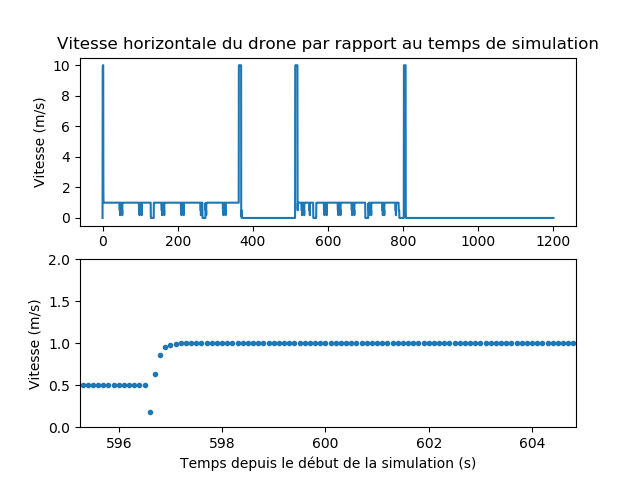
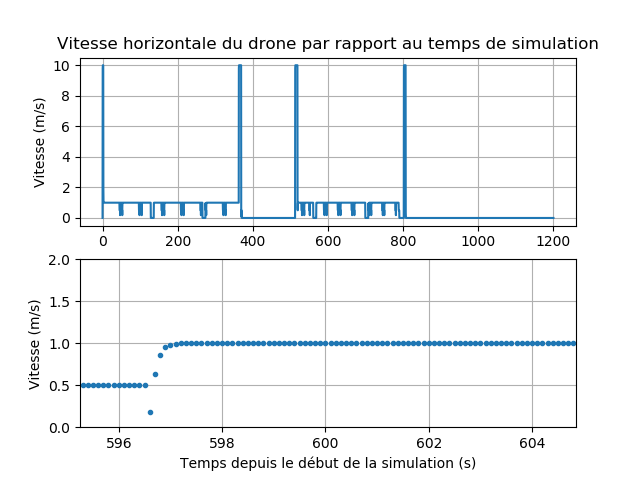
2 axis with grid

diff --git a/generate_graphs.py b/generate_graphs.py
@@ -7,16 +7,16 @@ try3 = pandas.read_csv("4cores_localvm_try3.csv", sep=",", header=0, index_col=F
 
 #Un example de variable d'état du drone (vitesse horizontale)
 fig, (ax1, ax2) = subplots(2,1)
+ax1.grid()
 ax1.plot(try1["pas de simulation (ms)"]/1000, try1["vitesse horizontale"])
 ax1.set_title('Vitesse horizontale du drone par rapport au temps de simulation')
 ax1.set_ylabel('Vitesse (m/s)')
-grid()
 ax2.margins(x=-0.496, y=0.05)
 ax2.set_ylim([0,2])
 ax2.plot(try1["pas de simulation (ms)"]/1000, try1["vitesse horizontale"], ".",)
 ax2.set_ylabel('Vitesse (m/s)')
 ax2.set_xlabel('Temps depuis le début de la simulation (s)')
-grid()
+ax2.grid()
 savefig("csv_variable_etat.png")
 #Une figure par run pour les métriques d'ordonnancement (5 tâches)
 fig = figure()
